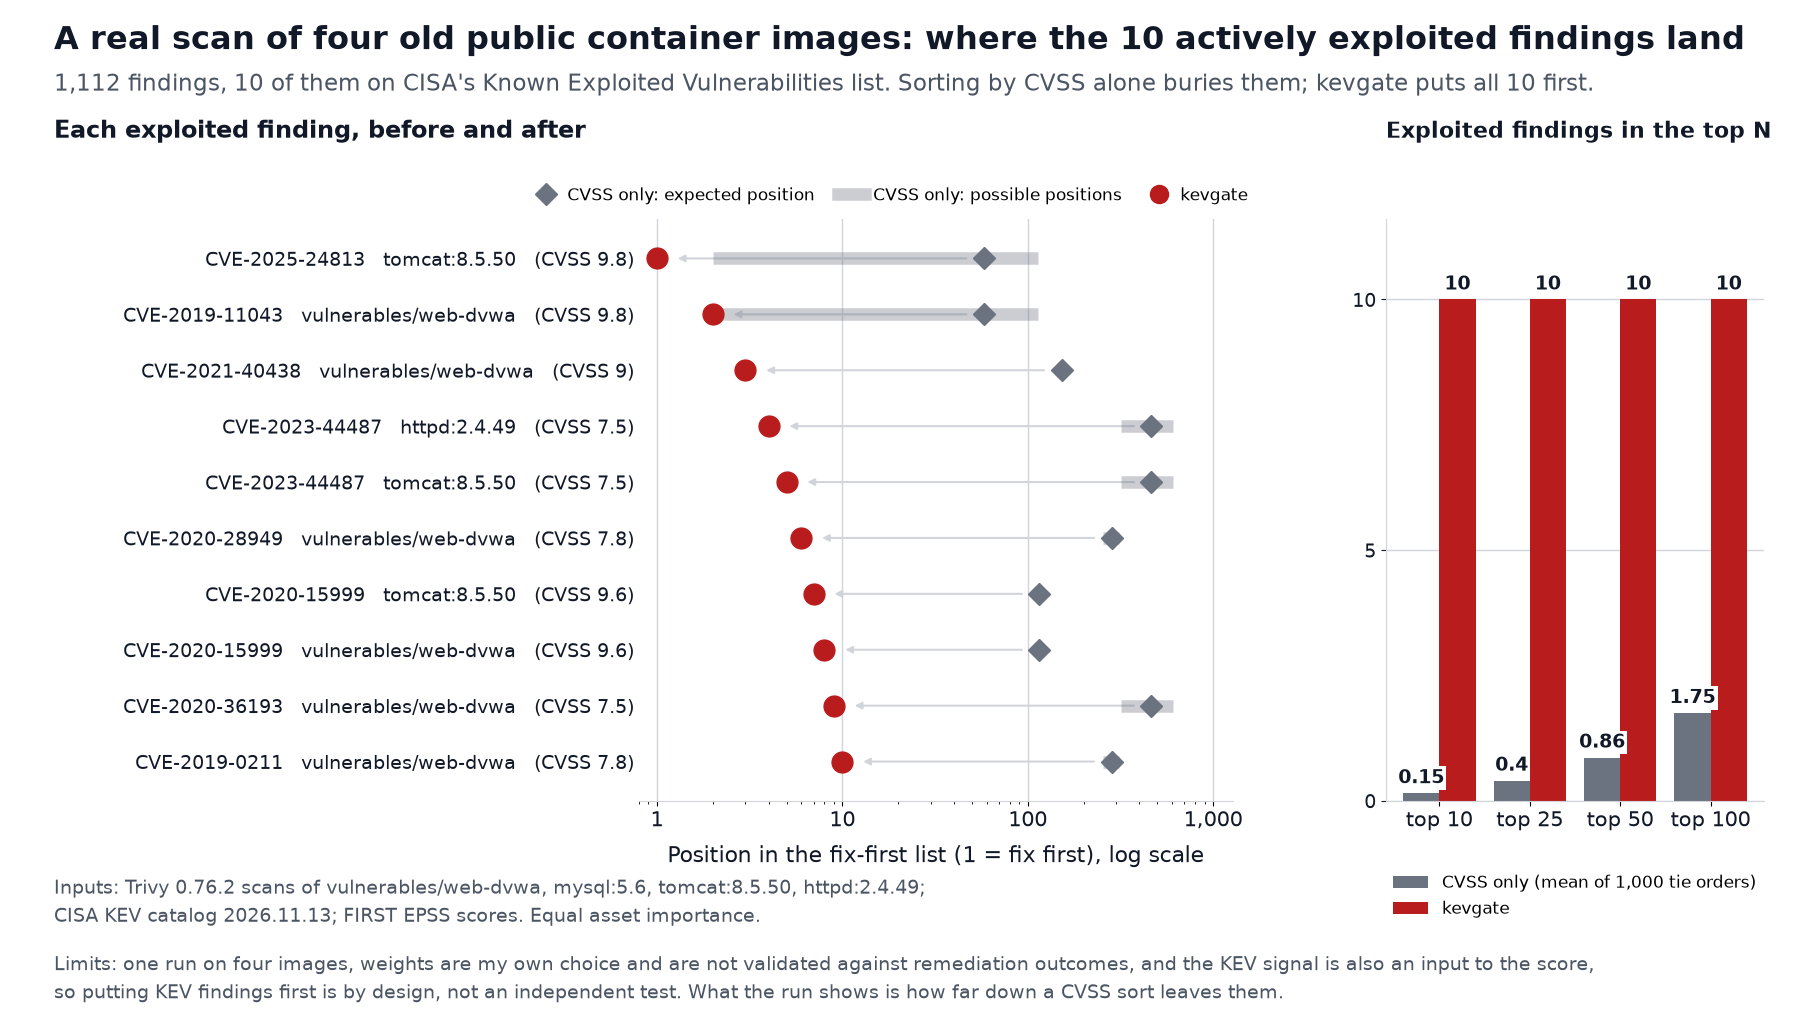
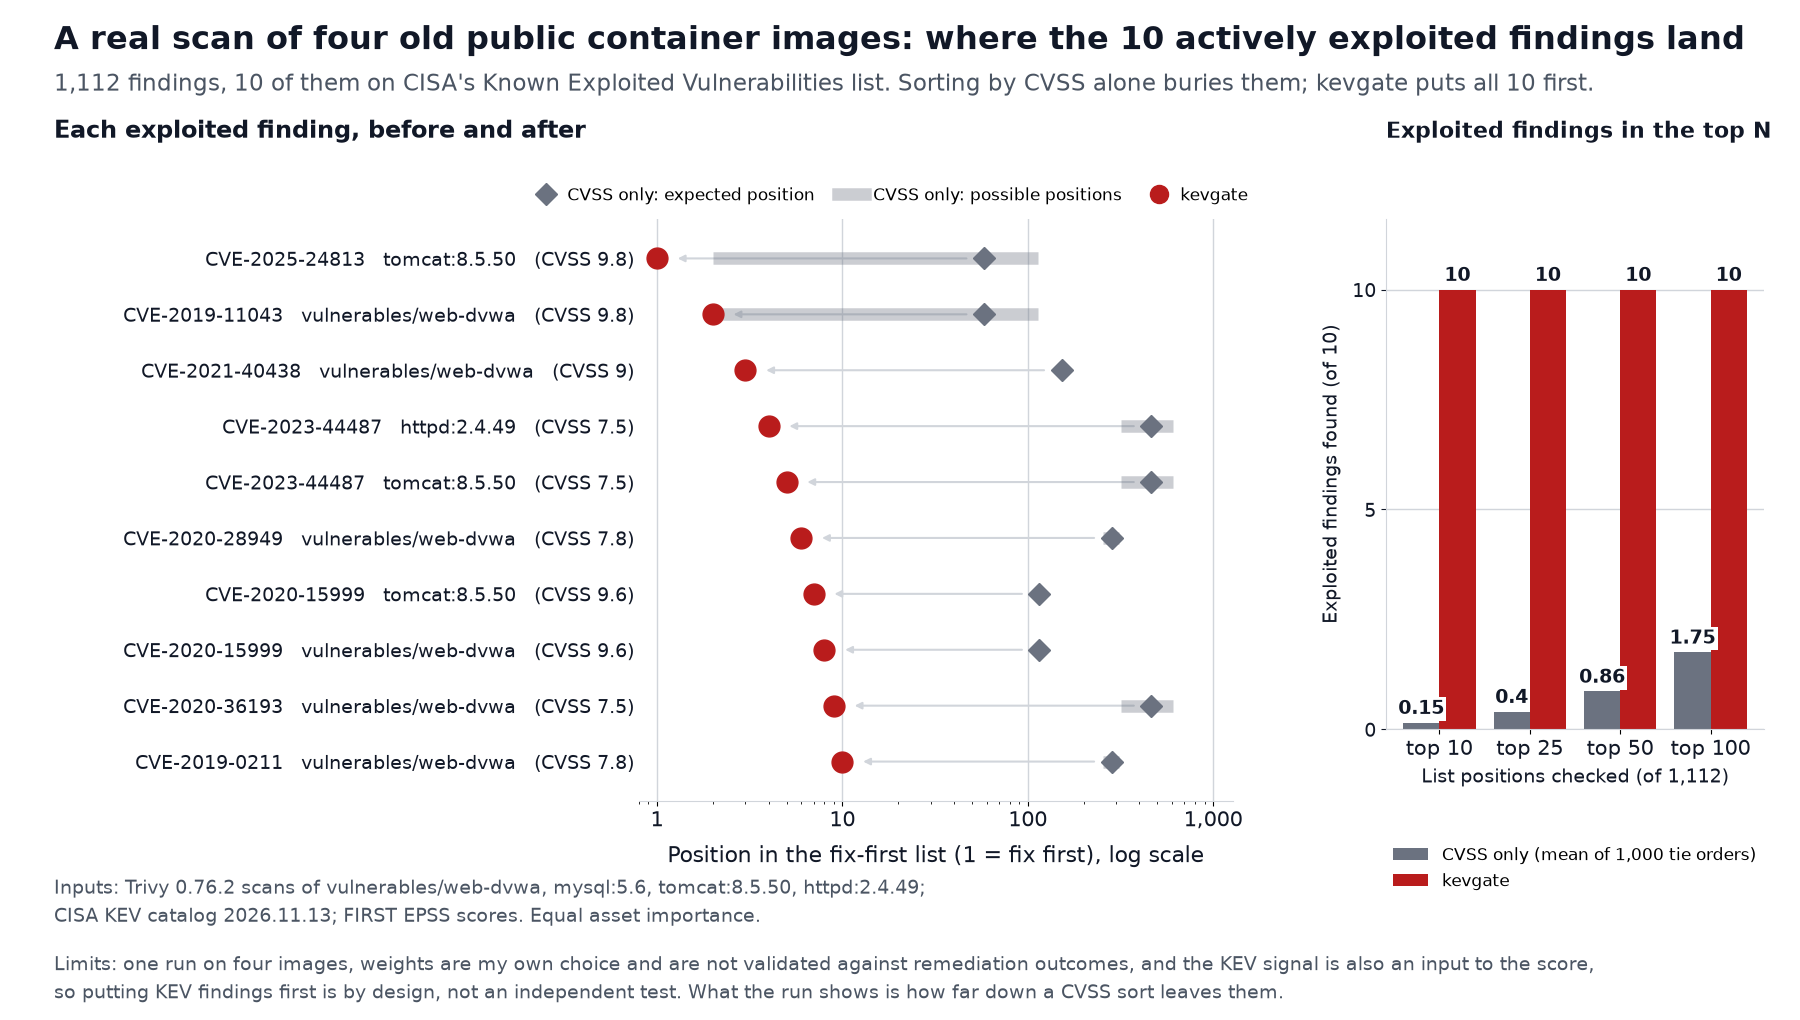
Label the axes of the real-run chart
The right panel now has a y-axis label (exploited findings found, of 10) and an x-axis label (list positions checked, of 1,112). Values and data are unchanged; the image is regenerated by scripts/make_real_run.py from docs/real-run/results.json.

diff --git a/scripts/make_real_run.py b/scripts/make_real_run.py
@@ -120,7 +120,7 @@ ax.legend(
     columnspacing=1.4,
 )
 
-ax2 = fig.add_axes([0.77, 0.215, 0.21, 0.57], facecolor="white")
+ax2 = fig.add_axes([0.77, 0.285, 0.21, 0.5], facecolor="white")
 tops = ["10", "25", "50", "100"]
 cvss_vals = [R["cvss_only"]["mean_kev_in_top"][t] for t in tops]
 kg_vals = [R["equal_acr"]["kev_in_top"][t] for t in tops]
@@ -145,6 +145,15 @@ for rect, v in zip(list(b1) + list(b2), cvss_vals + kg_vals, strict=True):
     )
 ax2.set_xticks(list(x))
 ax2.set_xticklabels([f"top {t}" for t in tops], fontsize=15, color=TEXT)
+ax2.set_xlabel(
+    f"List positions checked (of {n_total:,})",
+    fontsize=13.5,
+    color=TEXT,
+    labelpad=6,
+)
+ax2.set_ylabel(
+    f"Exploited findings found (of {n_kev})", fontsize=14, color=TEXT, labelpad=8
+)
 ax2.set_ylim(0, n_kev + 1.6)
 ax2.set_yticks([0, 5, 10])
 ax2.tick_params(axis="y", labelsize=14, colors=TEXT)
@@ -155,7 +164,7 @@ for s in ("top", "right"):
 for s in ("left", "bottom"):
     ax2.spines[s].set_color(LINE)
 fig.text(0.77, 0.865, "Exploited findings in the top N", fontsize=16, fontweight="bold", color=TEXT)
-ax2.legend(loc="upper center", bbox_to_anchor=(0.5, -0.1), ncol=1, frameon=False, fontsize=12.5)
+ax2.legend(loc="upper center", bbox_to_anchor=(0.5, -0.2), ncol=1, frameon=False, fontsize=12.5)
 
 mi = ", ".join(s["image"] for s in MAN["scans"])
 fig.text(
